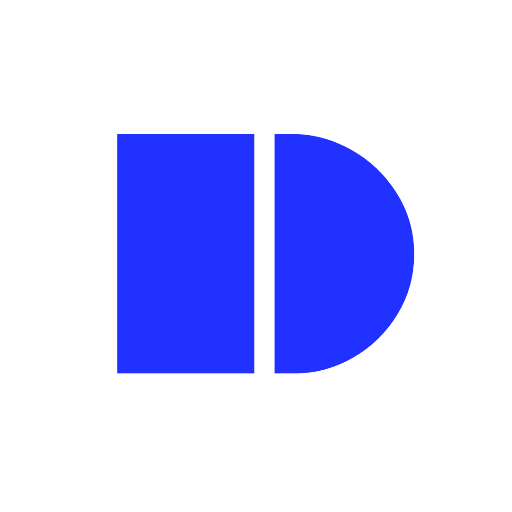
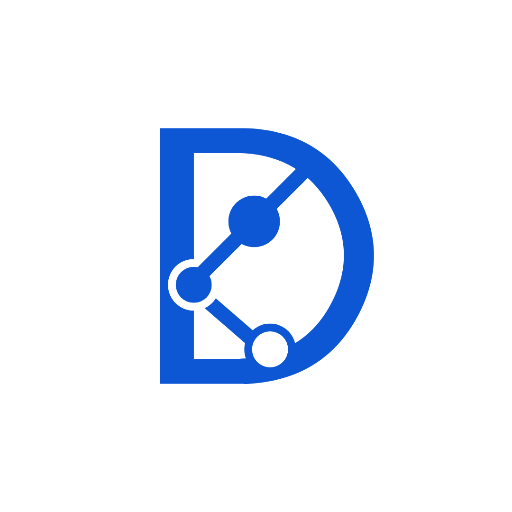
commit1

Changed region(s): [[0.2188, 0.25, 0.8125, 0.75]]

diff --git a/app/pre-launch/page.tsx b/app/pre-launch/page.tsx
@@ -2,7 +2,7 @@
 
 import { motion } from 'framer-motion';
 import Image from 'next/image';
-import ContactForm from '@/components/contact-form';
+
 
 export default function PreLaunch() {
   return (
@@ -31,7 +31,7 @@ export default function PreLaunch() {
           className="mb-8"
         >
           <Image
-            src="/logo123.png"
+            src="/DevkstraLogo.png"
             alt="Devkstra Logo"
             width={150}
             height={150}
@@ -77,8 +77,8 @@ export default function PreLaunch() {
               className="w-16 h-16 mx-auto"
             >
               <Image
-                src="/logo123.png"
-                alt="Loading..."
+                src="/DevkstraLogo.png"
+                alt="Loading...."
                 width={64}
                 height={64}
                 className="mx-auto"
@@ -88,8 +88,7 @@ export default function PreLaunch() {
         </motion.div>
       </div>
 
-      {/* Contact Form */}
-      <ContactForm />
+      
     </div>
   );
 }
